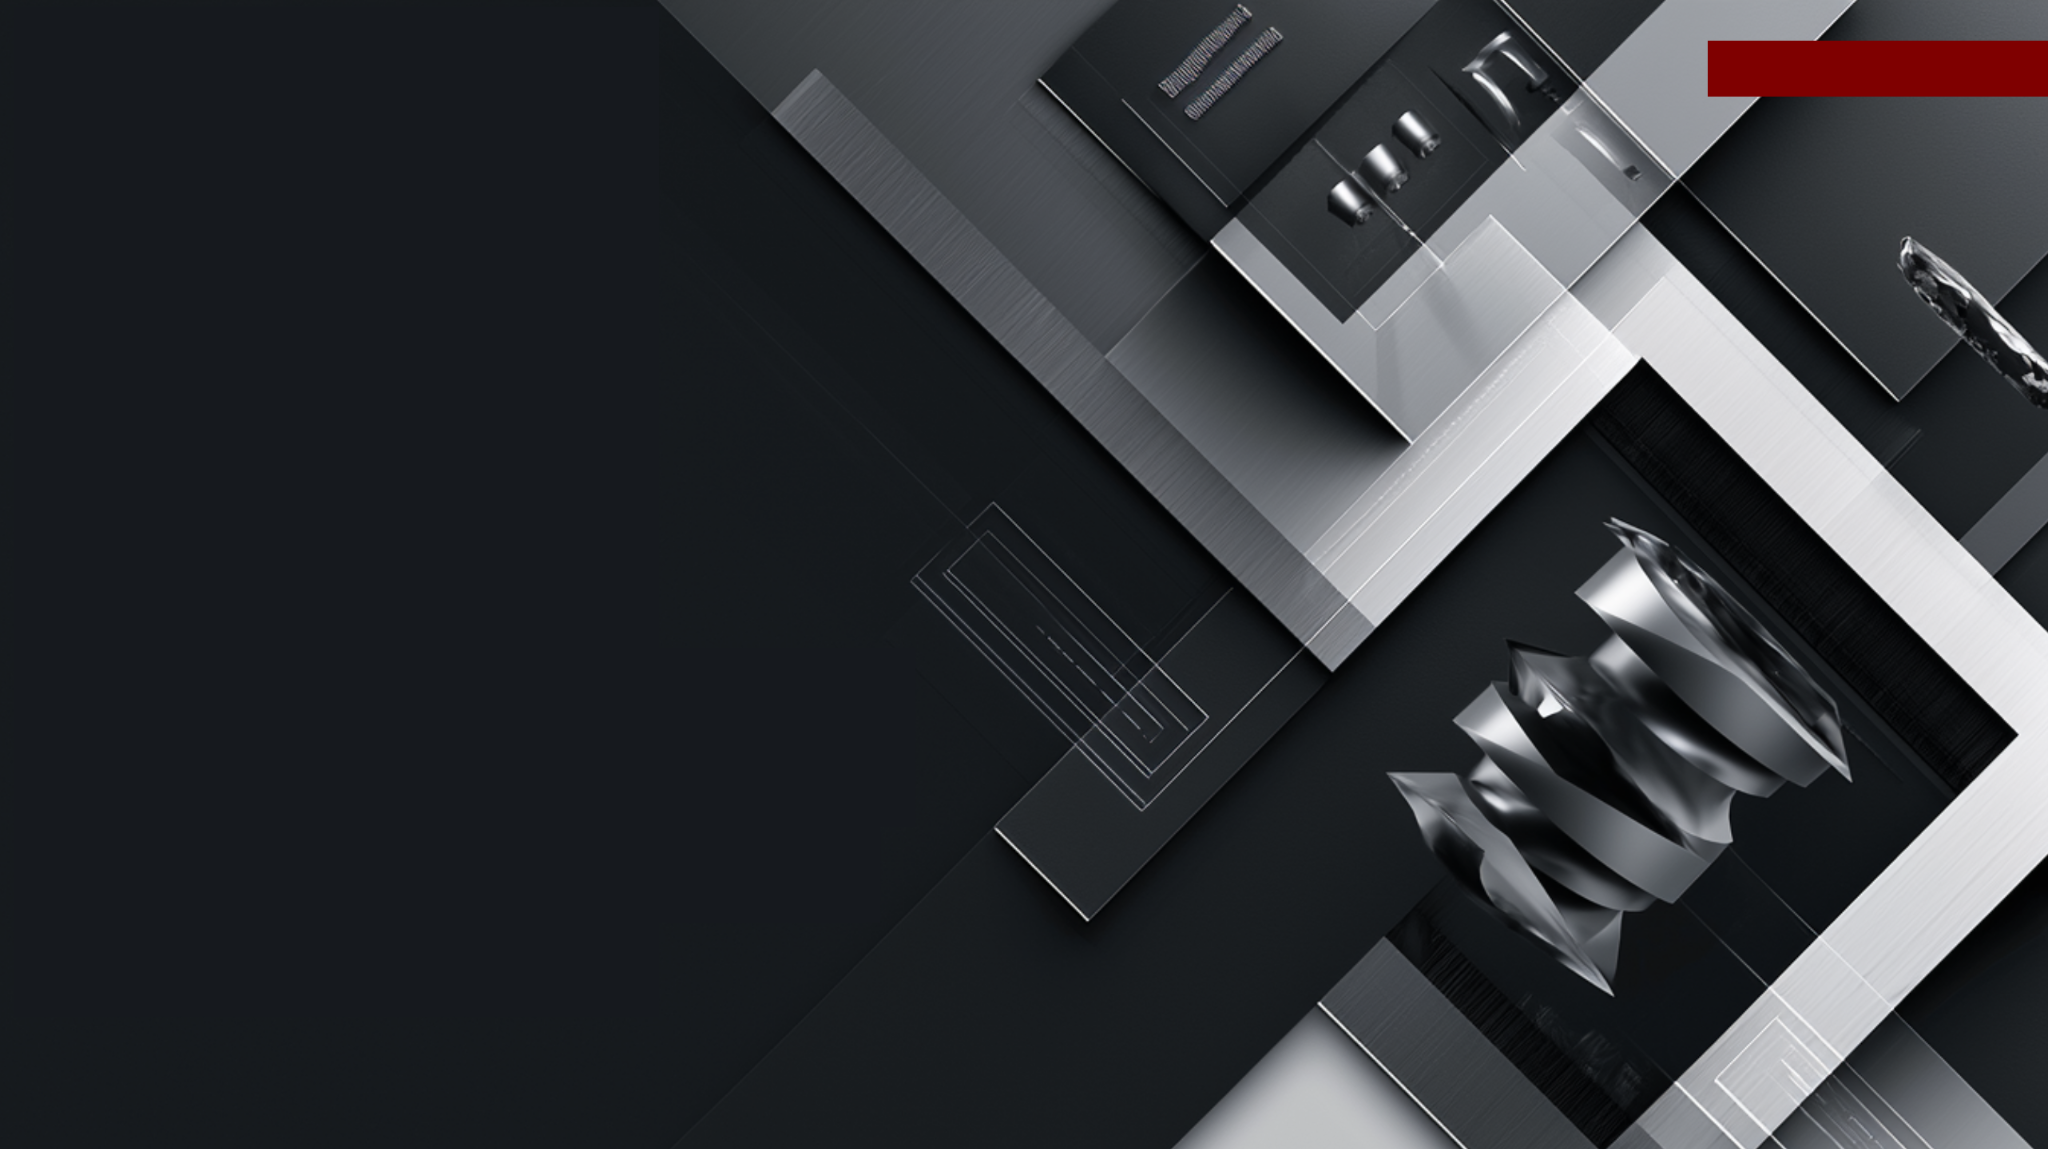
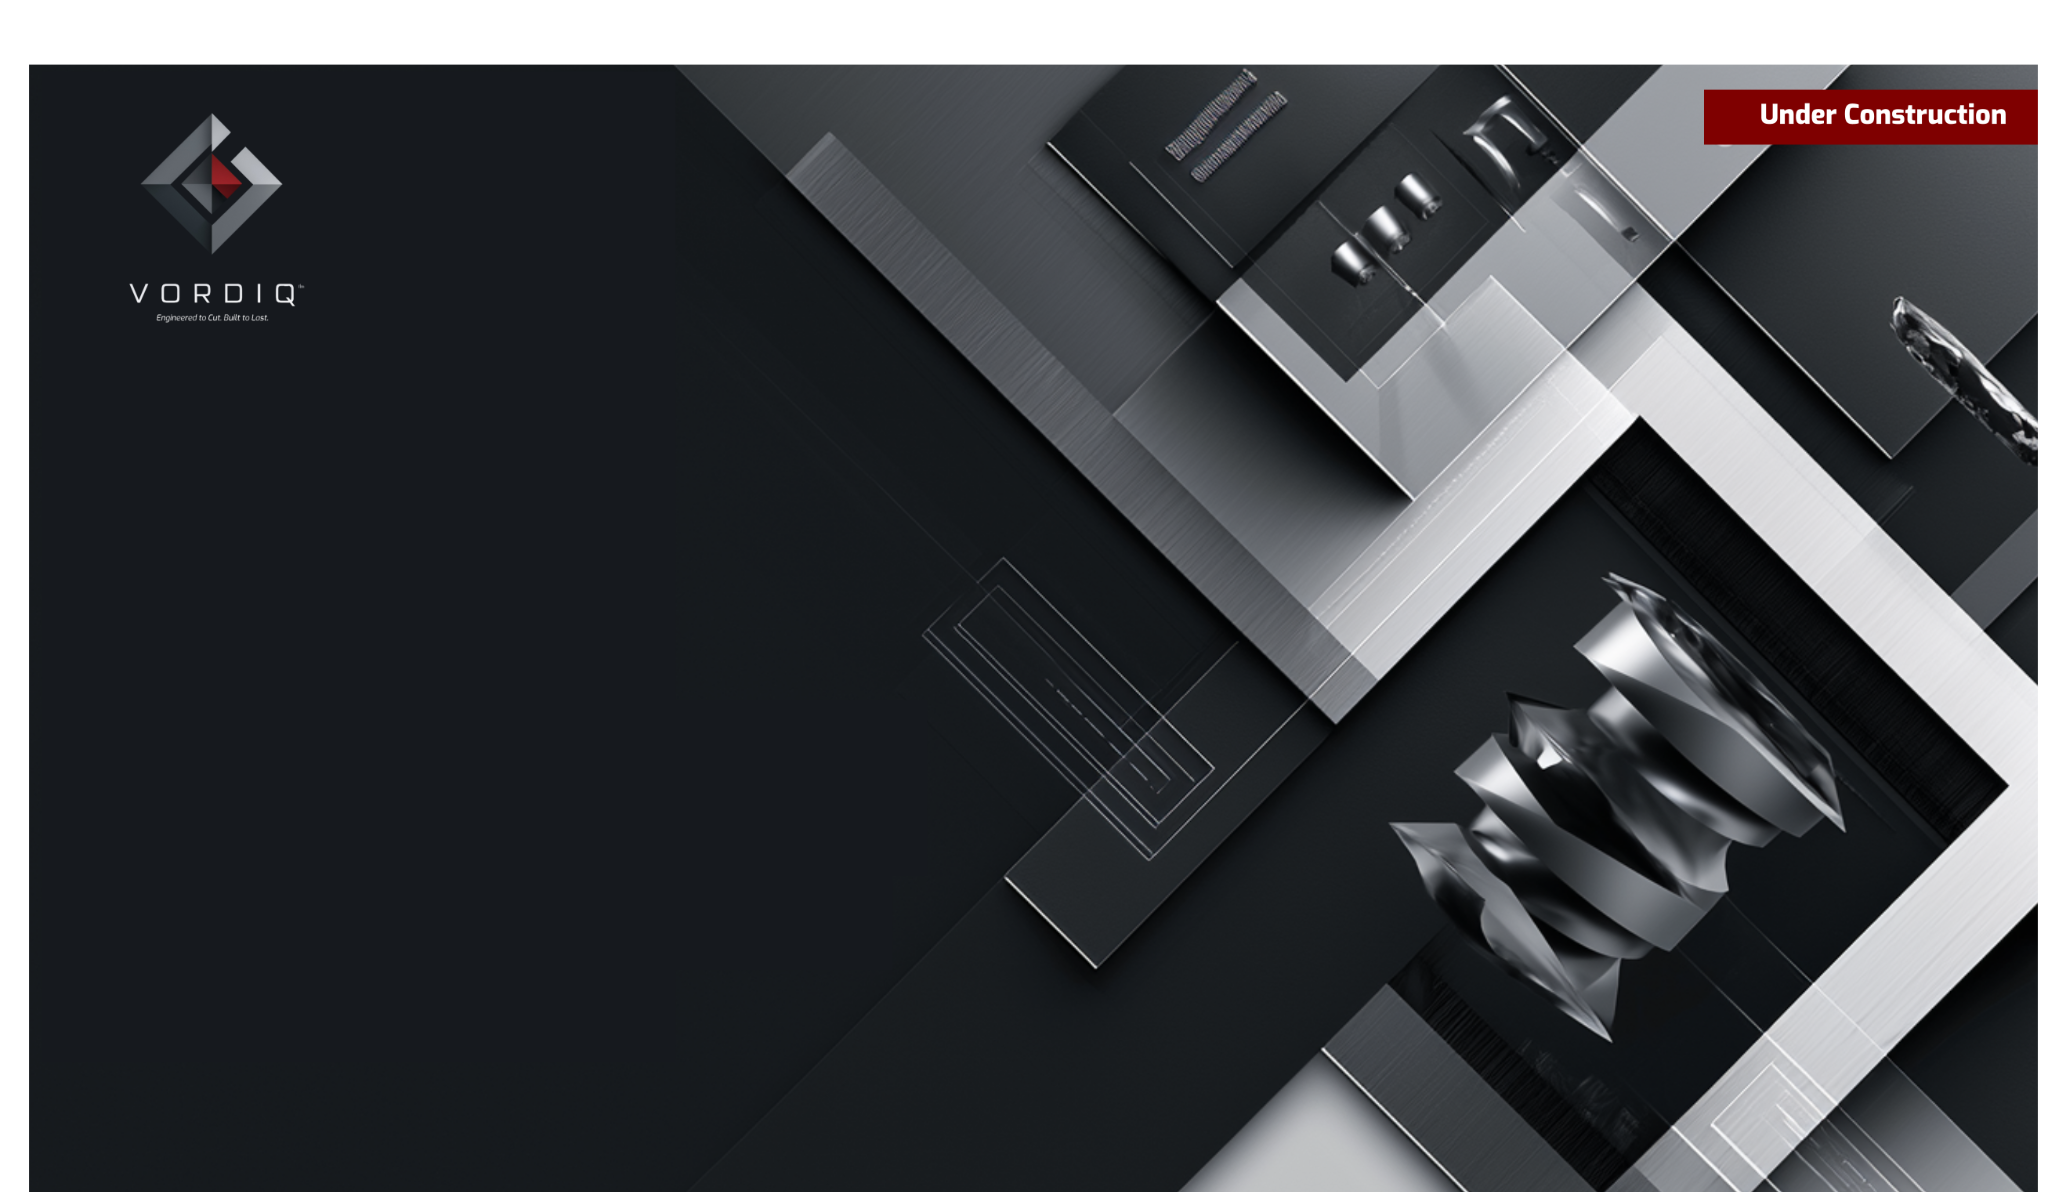
Add files via upload

diff --git a/index.html b/index.html
@@ -1,73 +1,74 @@
-
 <!DOCTYPE html>
 <html lang="en">
 <head>
-    <meta charset="UTF-8">
-    <title>VORDIQ - Coming Soon</title>
-    <link href="https://fonts.googleapis.com/css2?family=Exo+2:wght@400;600;700&display=swap" rel="stylesheet">
-    <style>
-        body {
-            margin: 0;
-            font-family: 'Exo 2', sans-serif;
-            background: url('background.png') no-repeat center center fixed;
-            background-size: cover;
-            color: white;
-            display: flex;
-            flex-direction: column;
-            justify-content: center;
-            height: 100vh;
-            text-align: left;
-            padding-left: 5%;
-        }
-        .container {
-            max-width: 600px;
-        }
-        h1 {
-            font-size: 2.2rem;
-            font-weight: 700;
-        }
-        h2 {
-            font-size: 1.2rem;
-            font-weight: 400;
-            font-style: italic;
-        }
-        .logo {
-            margin-top: 30px;
-            width: 160px;
-        }
-        .tagline {
-            font-size: 0.9rem;
-            margin-top: 5px;
-            margin-bottom: 25px;
-        }
-        .button {
-            background-color: #e60000;
-            color: white;
-            padding: 14px 24px;
-            border: none;
-            border-radius: 6px;
-            font-size: 1rem;
-            font-weight: 700;
-            cursor: pointer;
-            margin-top: 10px;
-        }
-        .note {
-            margin-top: 12px;
-            font-size: 0.9rem;
-            color: #ccc;
-        }
-    </style>
+  <meta charset="UTF-8" />
+  <meta name="viewport" content="width=device-width, initial-scale=1.0" />
+  <title>VORDIQ | Coming Soon</title>
+  <link href="https://fonts.googleapis.com/css2?family=Exo+2:wght@400;600;700&display=swap" rel="stylesheet">
+  <style>
+    * {
+      margin: 0;
+      padding: 0;
+      box-sizing: border-box;
+    }
+    body, html {
+      height: 100%;
+      font-family: 'Exo 2', sans-serif;
+    }
+    .container {
+      background: url('background.png') no-repeat center center fixed;
+      background-size: cover;
+      height: 100vh;
+      width: 100vw;
+      color: #fff;
+      display: flex;
+      justify-content: flex-start;
+      align-items: center;
+      padding-left: 4vw;
+    }
+    .content {
+      max-width: 40%;
+    }
+    h1 {
+      font-size: 2em;
+      font-weight: 700;
+      margin: 0.5em 0;
+    }
+    h3 {
+      font-weight: 600;
+    }
+    p {
+      font-style: italic;
+      margin-bottom: 2em;
+    }
+    .button {
+      background-color: #e10000;
+      color: white;
+      padding: 0.8em 1.5em;
+      font-weight: 700;
+      font-size: 1em;
+      border: none;
+      border-radius: 5px;
+      cursor: pointer;
+      margin-bottom: 0.5em;
+      display: inline-block;
+    }
+    .subtext {
+      font-size: 0.9em;
+      color: #d1d1d1;
+    }
+  </style>
 </head>
 <body>
-    <div class="container">
-        <p><strong>Coming soon:</strong></p>
-        <h1>We are building Europe`s Smartest Online Drilling AI Platform</h1>
-        <h2>From Water wells to Geotechnics and Mining – <em>we simplify heavy drilling</em></h2>
-        <img src="logo.png" alt="VORDIQ logo" class="logo">
-        <p class="tagline">Engineered to Cut. Built to Last.</p>
-        <button class="button">📌 Be the first. Stay ahead.</button>
-        <p class="note">Founding Members enjoy lifetime benefits, discounts, perks and direct AI support.</p>
+  <div class="container">
+    <div class="content">
+      <h3>Coming soon:</h3>
+      <h1>We are building Europe`s Smartest Online Drilling AI Platform</h1>
+      <p>From Water wells to Geotechnics and Mining – <i>we simplify heavy drilling</i></p>
+
+      <button class="button">📌 Be the first. Stay ahead.</button>
+      <div class="subtext">Founding Members enjoy lifetime benefits, discounts, perks and direct AI support.</div>
     </div>
+  </div>
 </body>
 </html>
-  
